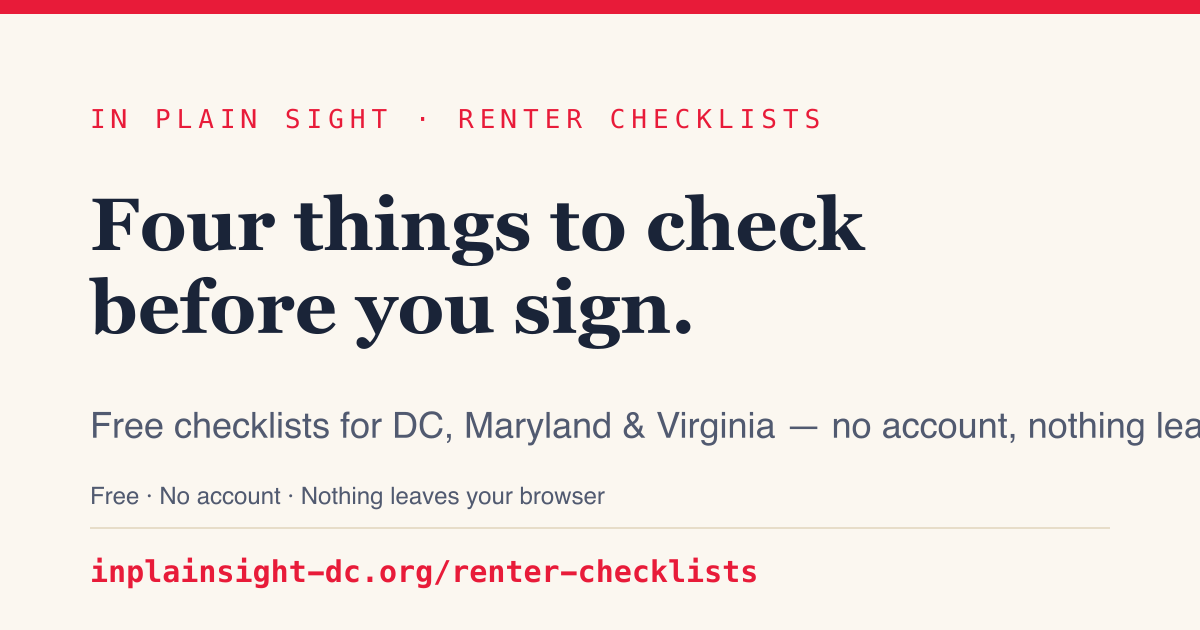
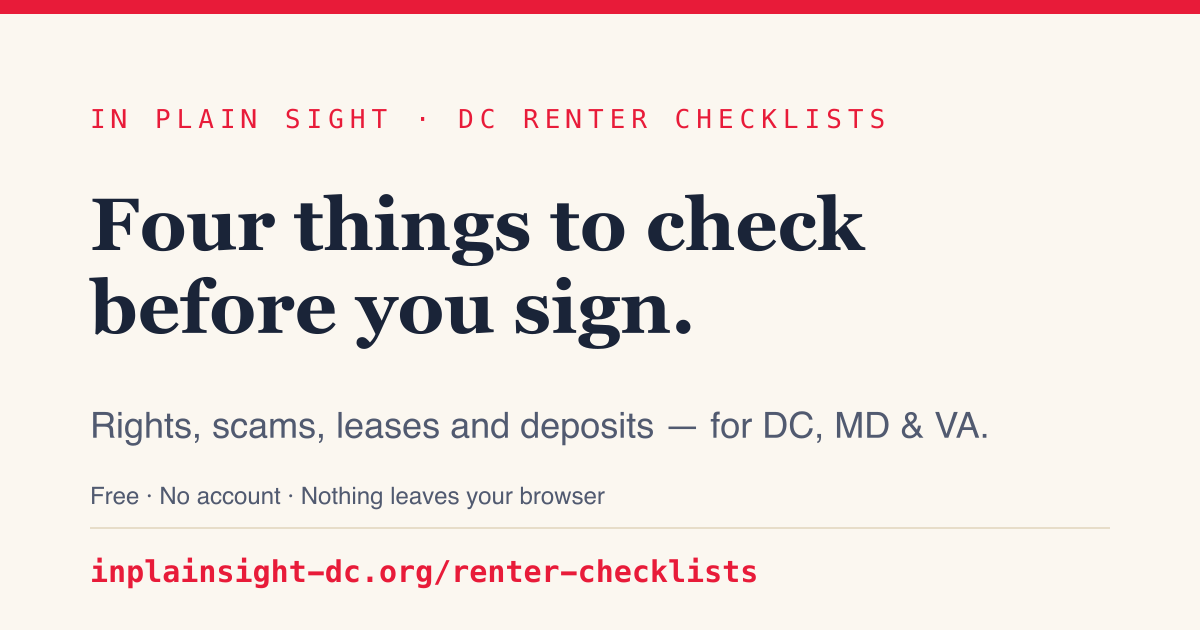
Naming: prefix the tools with DC, and stop clipping OG card subtitles
Naming pass across the family — DC Ghost Homes, DC Renter Checklists, DC Trash
Tracker, DC Rentals — in the registry cards, page titles, h1s, the two /rentals
cross-links, and the OG card eyebrows.

The Trash card title was still "DC Trash" while its own description, page title
and h1 all said "DC Trash Tracker"; every other card matches its page, so this
follows suit. Say if the shorter index label was deliberate.

OG cards: the sub line had no wrapping and no measurement, so a long one ran off
the right edge and was clipped mid-word. Ghost Homes has been shipping a
truncated sentence since it launched — visible to anyone who shared the link,
which is the whole point of the card. The Renter Checklists card I added
yesterday had the same fault.

Rather than trusting the next person to count characters, the generator now
fits the sub: shrink to the measure of the rule beneath it, wrap only if it
still will not fit at the minimum size, and warn either way so the copy can be
tightened. The width estimate is calibrated against the known-clipped Ghost
Homes render (~0.455 advance ratio for this stack). Both long subs were also
shortened so they render at full size; the strapline underneath already says
"Free · No account · Nothing leaves your browser", so repeating it was
redundant as well as too long.

Changed region(s): [[0.0925, 0.6333, 1.0, 0.7238], [0.37, 0.1508, 0.555, 0.2111], [0.5858, 0.1508, 0.74, 0.2111]]

diff --git a/src/data/projects/ghost-homes.md b/src/data/projects/ghost-homes.md
@@ -1,6 +1,6 @@
 ---
-title: "Ghost Homes"
-description: "Ghost Homes — whole homes held off DC's housing market as full-time short-term rentals. Look up your block, your ANC, your single-member district, or see the whole city. Short-term rentals, in plain sight."
+title: "DC Ghost Homes"
+description: "DC Ghost Homes — whole homes held off DC's housing market as full-time short-term rentals. Look up your block, your ANC, your single-member district, or see the whole city. Short-term rentals, in plain sight."
 tags: ["Housing", "Short-term rentals", "ANC", "Open data"]
 url: "/ghost-homes"
 status: "live"

diff --git a/src/data/projects/trash-tracker.md b/src/data/projects/trash-tracker.md
@@ -1,6 +1,6 @@
 ---
-title: "DC Trash"
-description: "Trash Tracker — check your DC trash and recycling pickup day, see live DPW delays, and report a missed collection. Piloting in ANC 1E03, built to grow."
+title: "DC Trash Tracker"
+description: "DC Trash Tracker — check your DC trash and recycling pickup day, see live DPW delays, and report a missed collection. Piloting in ANC 1E03, built to grow."
 tags: ["DPW", "Trash", "ANC 1E03", "Open data"]
 url: "/trash"
 status: "live"

diff --git a/src/data/projects/renter-checklists.md b/src/data/projects/renter-checklists.md
@@ -1,5 +1,5 @@
 ---
-title: "Renter Checklists"
+title: "DC Renter Checklists"
 description: "Four free checklists for renting in DC, Maryland and Virginia: know your rights, spot a rental scam, read your lease before you sign, and protect your deposit at move-in. No account, no AI, no paid plan — nothing you type leaves your browser."
 tags: ["Renters", "Tenant rights", "No account needed", "DMV"]
 url: "/renter-checklists"
